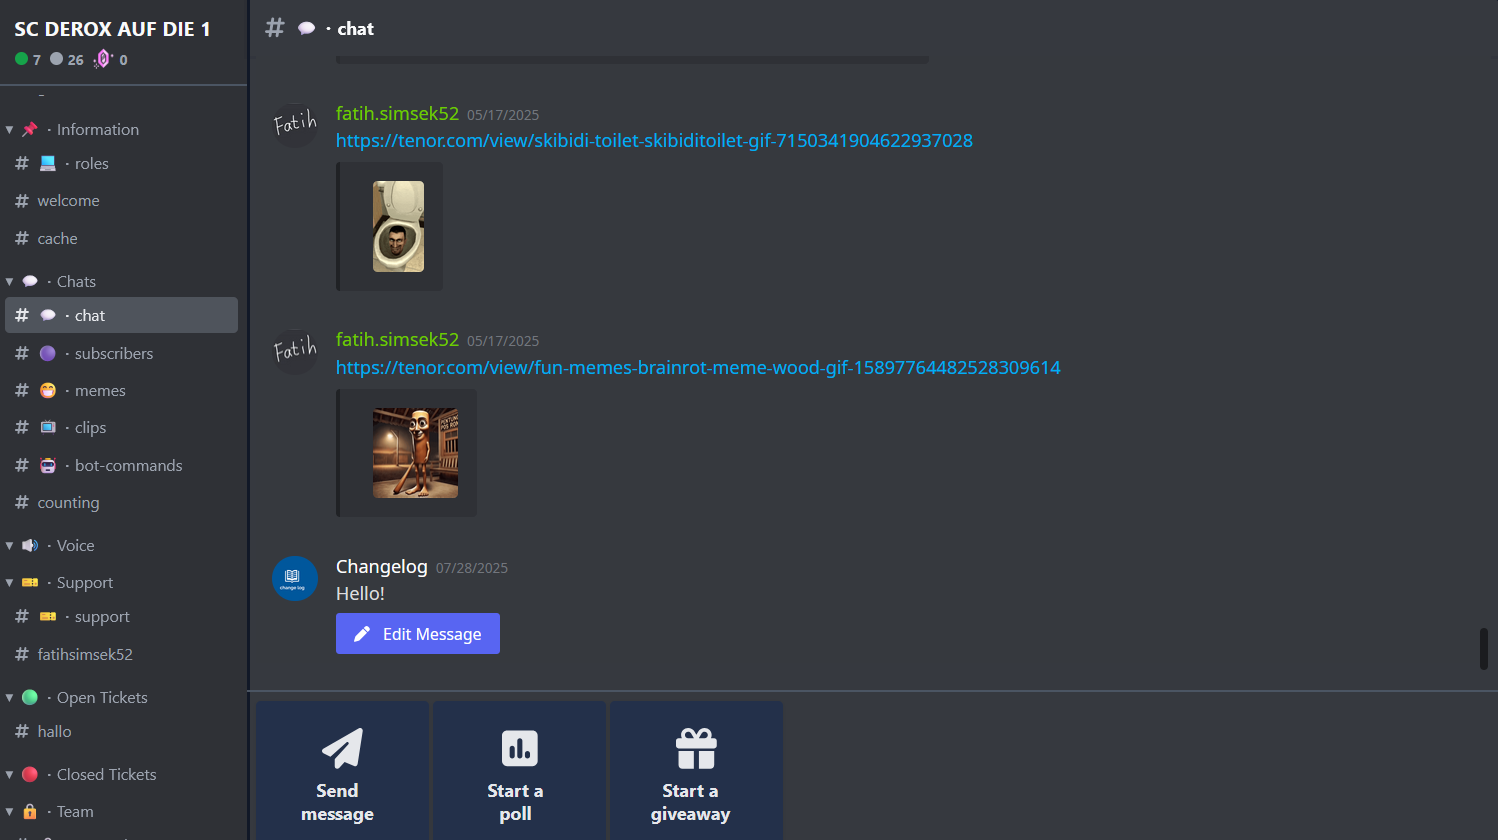
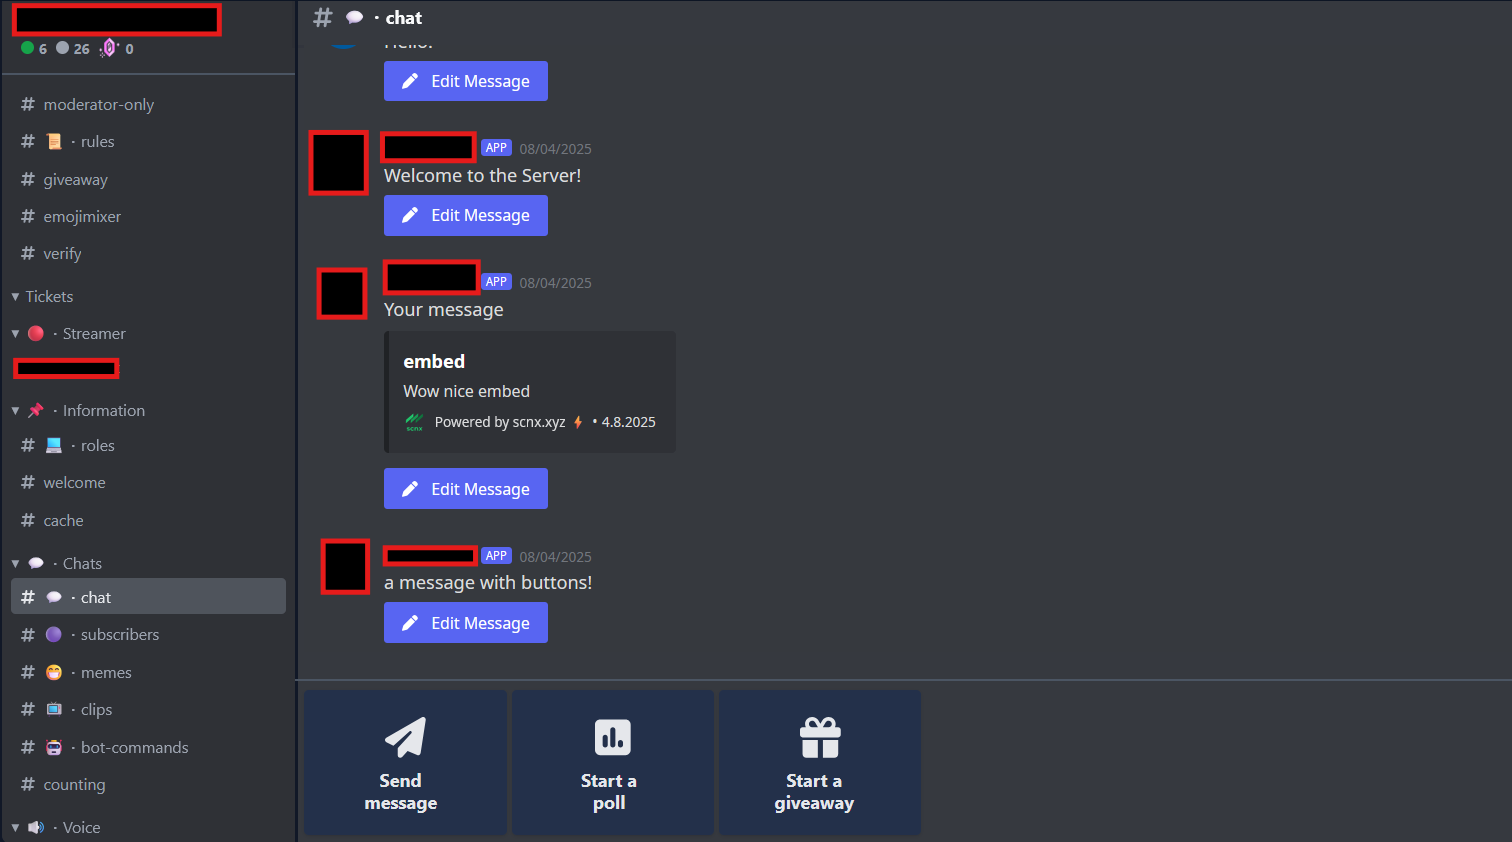
added new pictures

Changed region(s): [[0.0, 0.0, 1.0, 0.9905], [0.3992, 0.4952, 0.4299, 0.5262]]

diff --git a/docs/custom-bot/login-as-bot.md b/docs/custom-bot/login-as-bot.md
@@ -5,6 +5,9 @@ With bot login, you can send messages using your custom bot, with or without emb
 Here is a Example how Log-In as Bot looks like:
 ![](@site/docs/assets/custom-bot/additional-features/login-as-bot-1.png)
 
+and on Discord:
+![](@site/docs/assets/custom-bot/additional-features/login-as-bot-4.png)
+
 In this picture, you can see the channels of your server on the left side. In the center, you can see the messages within the selected channel. At the bottom, there are three buttons: `Send Message`, `Start a Poll`, and `Start a Giveaway`.
 To access this interface, simply visit https://scnx.app/glink?page=bot/login.
 
